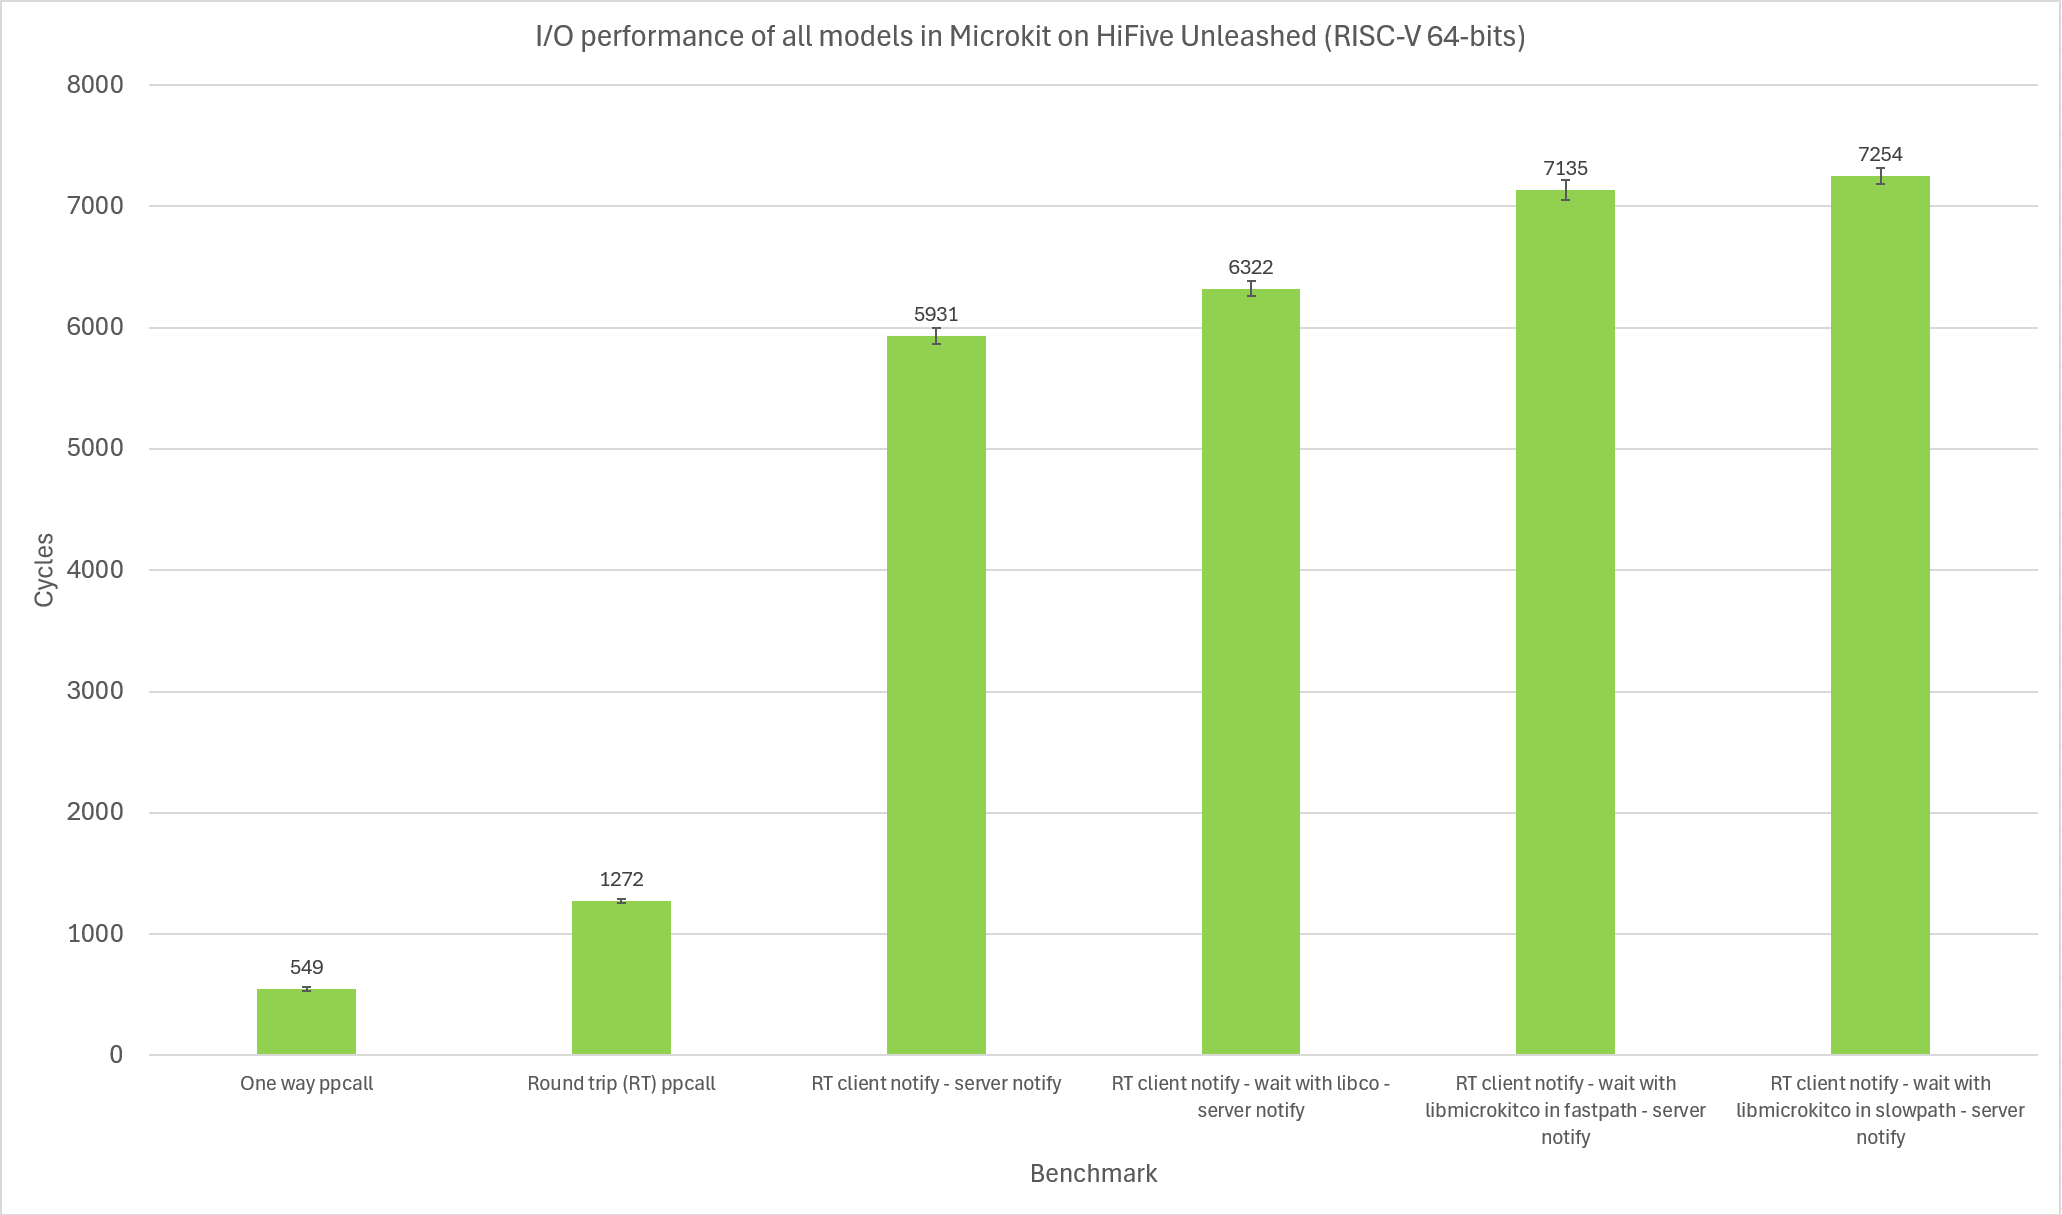
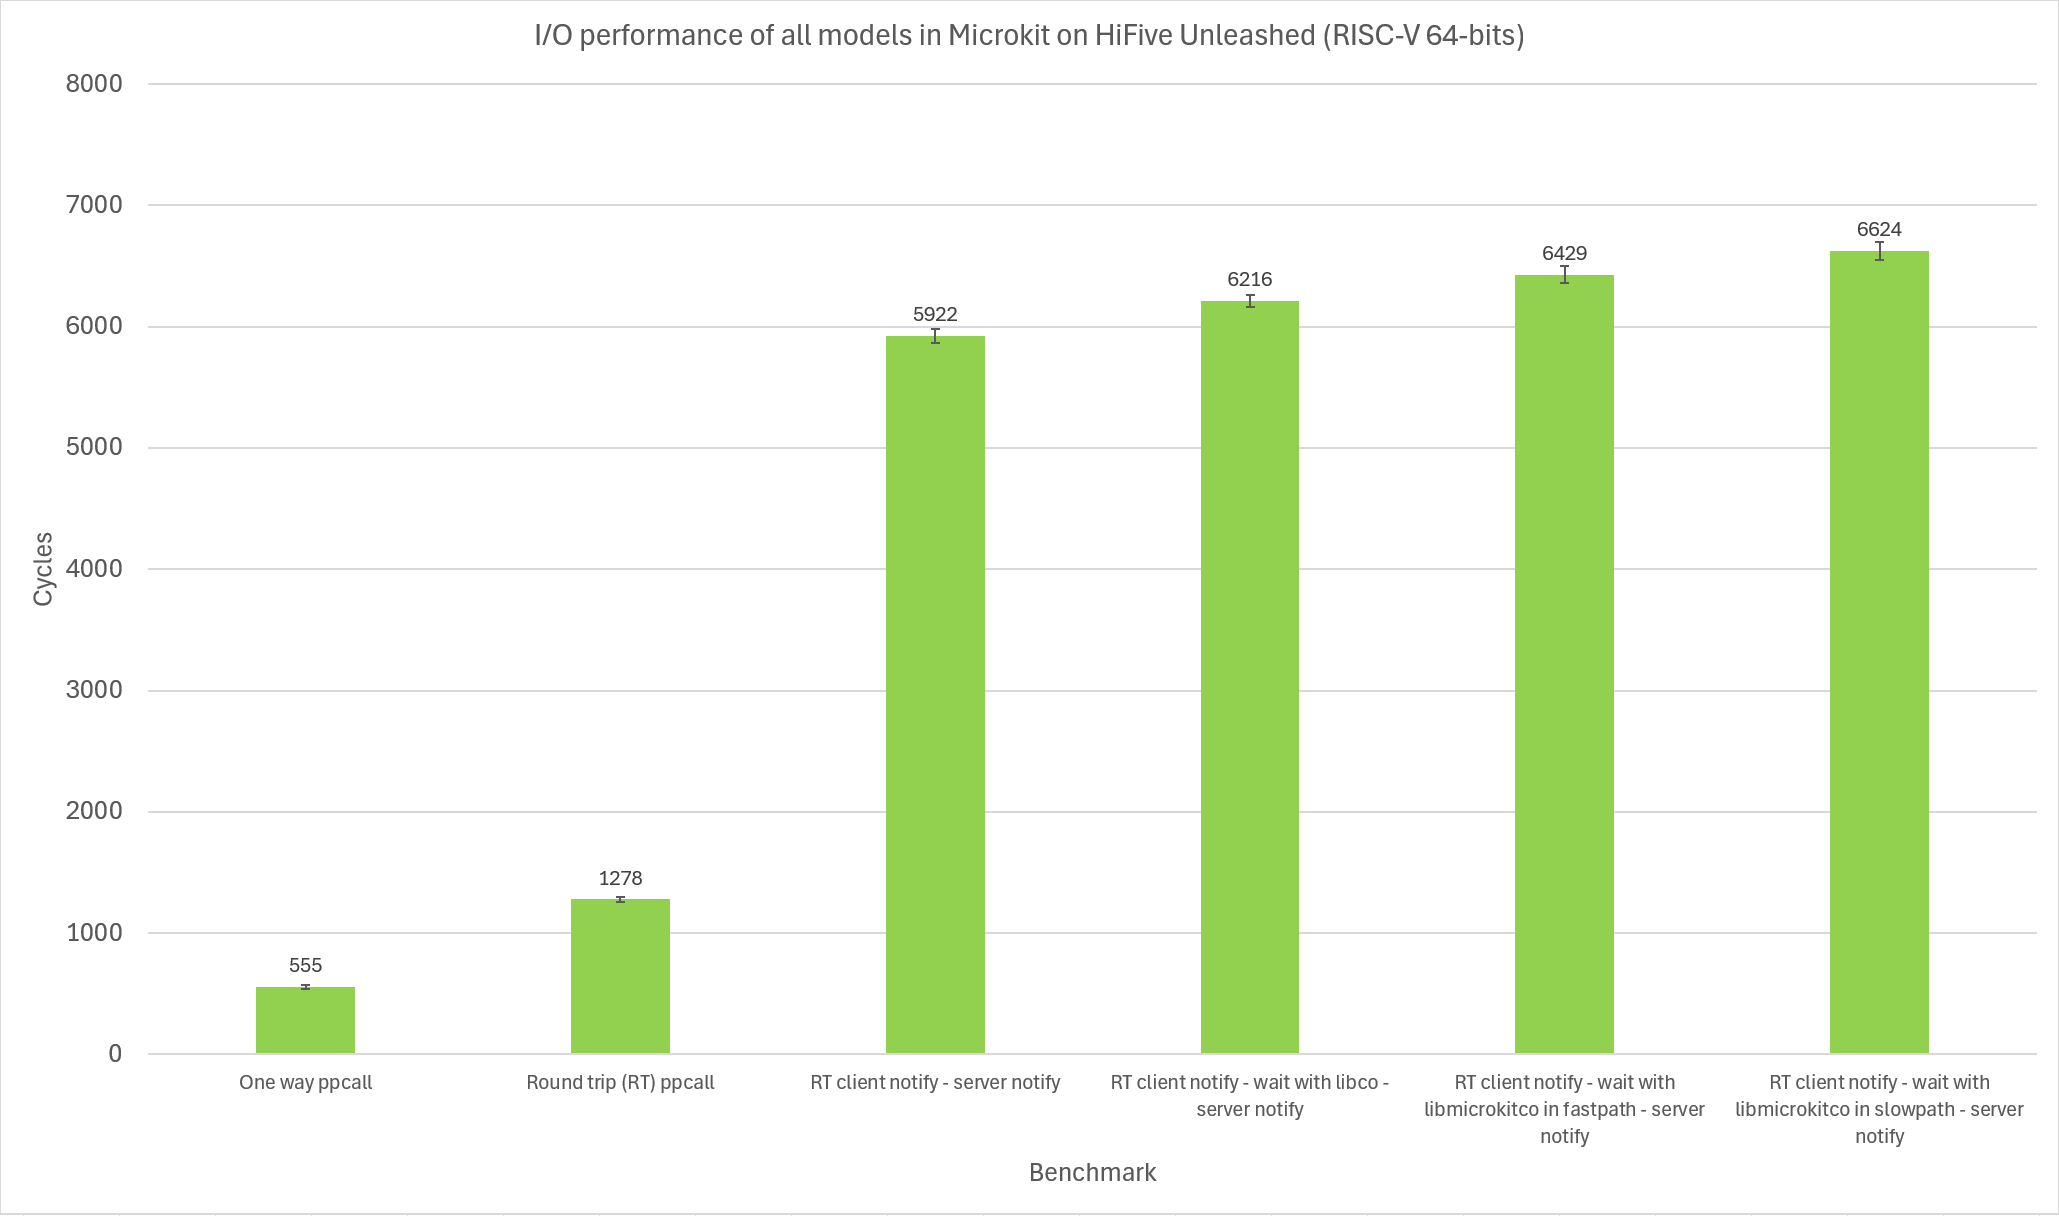
update performance numbers after new libco implementation

diff --git a/README.md b/README.md
@@ -52,21 +52,21 @@ This is an animation of a PD blocking on an incoming notification. The yellow ar
 Is an opt-in feature that allow incoming notifications from all channels to be queued, signifying that a shared resource is ready before a cothread blocks on it. There can only be a maximum of 1 queued notification per channel, if any more notifications come in and there is already a queued notification on that channel, they will be ignored. If a cothread blocks on a channel with a queued notification, that cothread is unblocked immediately with no state transition.
 
 ### Performance
-This data shows I/O performance of all possible communications model in Microkit between two separate address spaces compared to blocking with `libmicrokitco`. Ran on the Odroid C4 (AArch64) and HiFive Unleashed (RISC-V). The data represent 32 passes of operations after 8 warm up passes.
+This data shows I/O performance of all possible communications model in Microkit between two separate address spaces. Ran on the Odroid C4 (AArch64) and HiFive Unleashed (RISC-V). The data represent 32 passes of operations after 8 warm up passes.
 
 | Benchmark | AArch64 Mean (cycles) | AArch64 stdev | stdev % of mean | RISC-V64 Mean (cycles) | RISC-V64 stdev | stdev % of mean |
 |---|---|---|---|---|---|---|
-| One way Protected Prodecure Call (PPC) | 392 | 38.47 | 9.81% | 549 | 31.22 | 5.69% |
-| Round trip (RT) PPC | 853 | 52.73 | 6.18% | 1272 | 35.31 | 2.78% | 
-| RT client notify - server notify (async model) | 2448 | 75.81 | 3.10% | 5931 | 129.52 | 2.18% | 
-| RT client notify - wait with libco - server notify | 2723 | 124.15 | 4.56% | 6322 | 128.31 | 2.03% |  
-| RT client notify - wait with libmicrokitco in fastpath - server notify | 2864 | 191.18 | 6.68% | 7135 | 166.52 | 2.33% | 
-| RT client notify - wait with libmicrokitco in slowpath - server notify | 2980 | 139.07 | 4.67% | 7254 | 132.76 | 1.83% | 
+| One way Protected Prodecure Call (PPC) | 390 | 27.37 | 7.02% | 555 | 36.57 | 6.59% |
+| Round trip (RT) PPC | 871 | 59.89 | 6.88% | 1278 | 36.08 | 2.82% | 
+| RT client notify - server notify (async model) | 2496 | 83.99 | 3.37% | 5922 | 112.44 | 1.90% | 
+| RT client notify - wait with libco - server notify | 2749 | 156.35 | 5.69% | 6216 | 99.46 | 1.60% |  
+| RT client notify - wait with libmicrokitco in fastpath - server notify | 2861 | 159.28 | 5.57% | 6429 | 138.18 | 2.15% | 
+| RT client notify - wait with libmicrokitco in slowpath - server notify | 2935 | 158.56 | 5.40% | 6624 | 149.45 | 2.26% | 
 
 ![Performance chart](./docs/odroidc4_perf.png)
 ![Performance chart](./docs/hifive_perf.png)
 
-We observe that usage of this library to perform synchronous I/O over an asynchronous interface in Microkit incur a ~400 cycles penalty on AArch64 compared to using the native asynchronous Microkit APIs and ~150 cycles compared to using bare coroutine primitives to achieve blocking I/O.
+We observe that usage of this library to perform synchronous I/O over an asynchronous interface in Microkit incur a 365 cycles penalty on AArch64 compared to using the native asynchronous Microkit APIs and 112 cycles compared to using bare coroutine primitives to achieve blocking I/O.
 
 This is the cost of emulating synchronous I/O with coroutines and managing the state of said coroutines (which coroutines are blocking on what channel).
 
